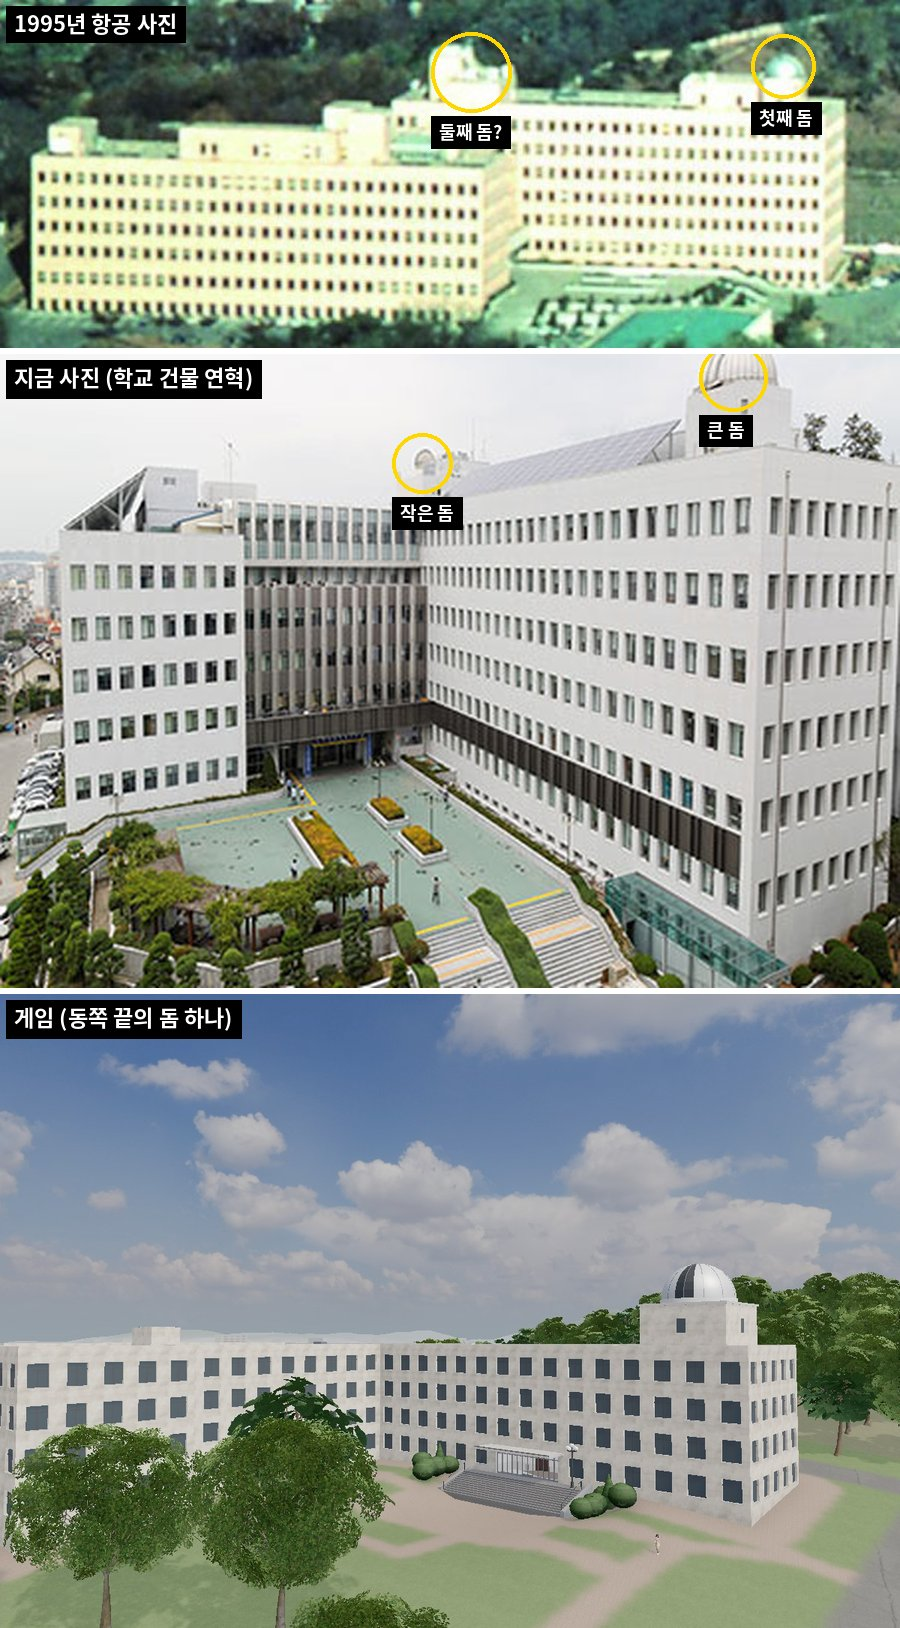
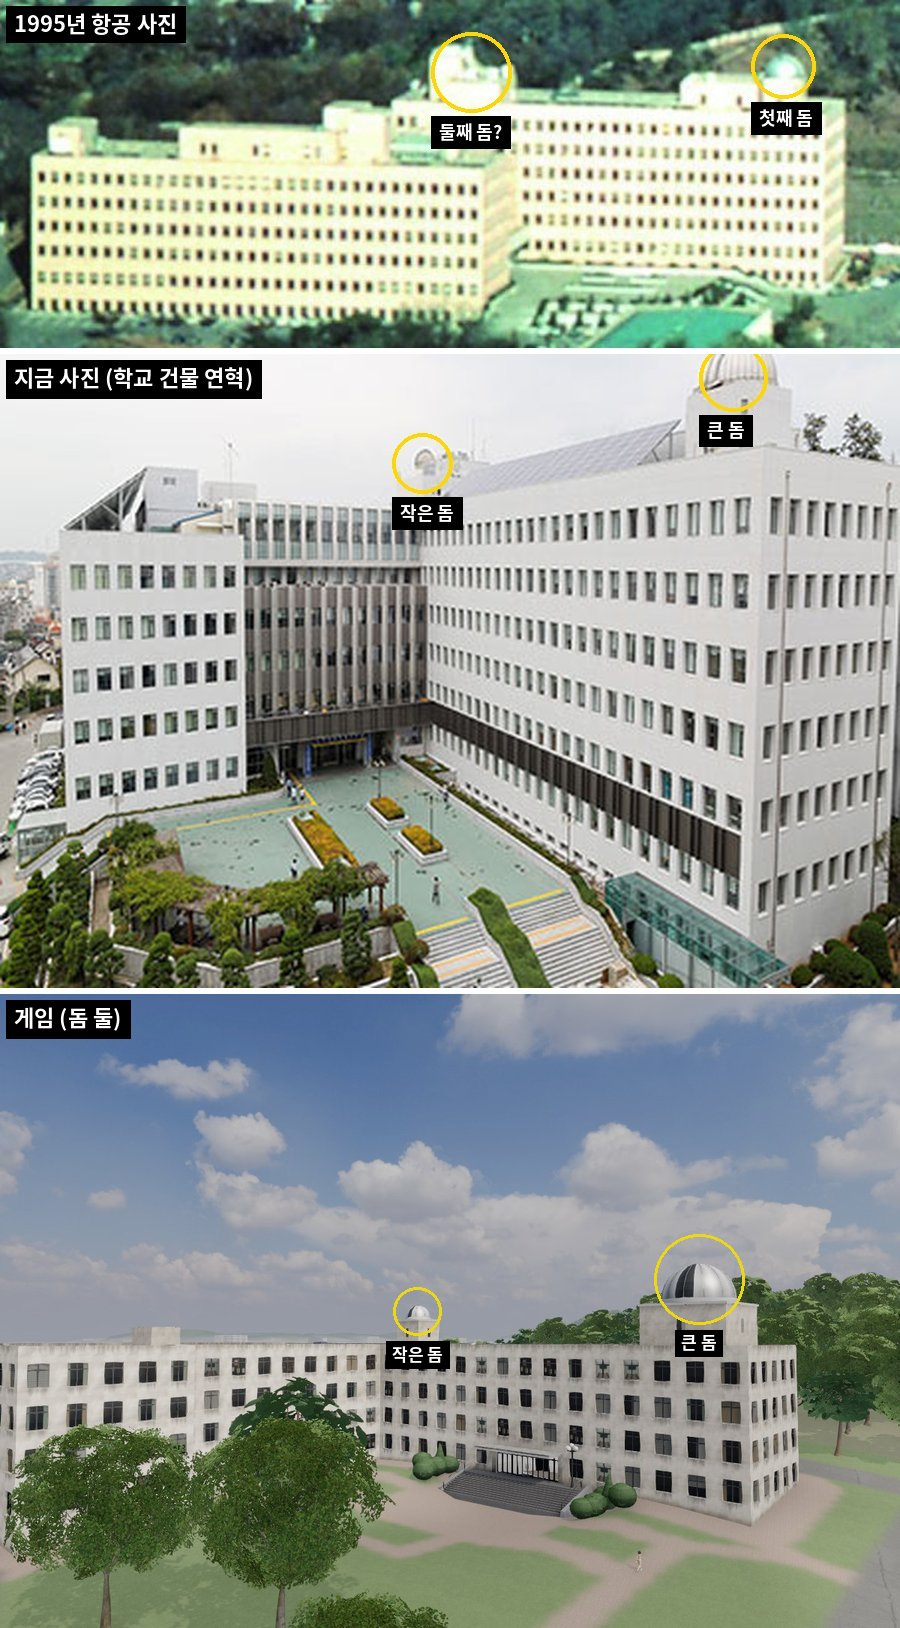
과학관 동쪽 날개 서쪽 끝에 작은 탑과 은빛 돔을 더함
- observatory 의 탑 · 돔 만들기를 dome_tower 로 빼고, 앞 블록과 만나는
  곳에 4.4 m 탑 위 지름 3.6 m 돔을 하나 더 세움. 크기와 탑 높이는 지금
  사진에서 큰 돔과의 비로 어림(고증 3.10)
- 비교 그림(74)의 게임 쪽을 같은 카메라로 다시 찍고 새 소식 캡처(89)

Changed region(s): [[0.0, 0.7371, 1.0, 0.9521], [0.3111, 0.9828, 0.4978, 1.0], [0.0933, 0.6143, 0.28, 0.645]]

diff --git a/blender/generic.py b/blender/generic.py
@@ -448,49 +448,65 @@ def barrel_roof(mb, cx, cy, L, W, ang, zt, rise=0.22, seg=12):
 
 
 # ----------------------------------------------------------------------------- rooftop features the outlines cannot say
-def observatory(mb, b, zt, st):
-    """과학관's observatory (reference/학교연혁_과학관.jpg, top right; reference/활천대_2009_연세춘추.jpg, far left): a
-    square white tower about 1.4 storeys over the roof near the east end of the east wing, carrying a silver dome
-    with an observing slit.  The tower stands back from the south face and is about 2.5 window bays across; the dome
-    nearly fills it (7.6 m across on a short drum), its top some 9.5 m over the main roof."""
-    fp = b['footprint']
-    e0, e1 = Vector(fp[0]), Vector(fp[1])                # the east face of the east wing (south -> north)
-    w = (Vector(fp[14]) - e0).normalized()               # along the wing, westwards
-    c = (e0 + e1) / 2 + w * 7.5                          # tower centre, 7.5 m in from the east face (aerial)
-    ang = math.atan2(w.y, w.x)
-    T, Ht = 9.0, 5.0                                     # tower side, height over the roof
+def dome_tower(mb, c, ang, zt, st, T, Ht, R, seg, rings, slit, drum, win, seam=0.04, phase=0.0):
+    """A square tower T a side and Ht over the roof zt at c (its sides along ang), with a window (half width, sill and
+    head over the roof) in three faces, carrying a silver dome R in radius on a white drum `drum` tall: gores of the
+    shell, the gores `slit` dark (the observing slit, running up over the top), raised seams between every other two."""
     zb = zt + Ht
     mb.box((c.x, c.y, zt + Ht / 2), (T, T, Ht), st['wall'], rotz=ang, mats={'top': 'roof_flat'}, skip=('bottom',))
     mb.box((c.x, c.y, zb + 0.12), (T + 0.3, T + 0.3, 0.24), 'concrete', rotz=ang, skip=('bottom',))   # coping
     cs, sn = math.cos(ang), math.sin(ang)
-    L = lambda u, v, z: (c.x + u * cs - v * sn, c.y + u * sn + v * cs, z)     # u westwards, v southwards
-    for (u, v, nu, nv) in ((0, T / 2, 0, 1), (-T / 2, 0, -1, 0), (T / 2, 0, 1, 0)):            # a window: S, E, W faces
+    L = lambda u, v, z: (c.x + u * cs - v * sn, c.y + u * sn + v * cs, z)     # u along ang, v to its right
+    hw, z0, z1 = win
+    for (u, v, nu, nv) in ((0, T / 2, 0, 1), (-T / 2, 0, -1, 0), (T / 2, 0, 1, 0)):
         tu, tv = -nv, nu
         p = lambda s, z, d=0.02: L(u + tu * s + nu * d, v + tv * s + nv * d, z)
-        mb.quad(p(-0.45, zt + 2.2), p(0.45, zt + 2.2), p(0.45, zt + 3.6), p(-0.45, zt + 3.6), st['glass'])
-    R, seg, rings = 3.8, 24, 7
-    mb.cylinder((c.x, c.y), R + 0.1, zb + 0.24, zb + 0.75, 'paint_white', seg=seg, cap_top=False)   # drum
-    za = zb + 0.75
-    # the dome: gores of the silver shell, with the slit (two gores wide, dark) running up over the top
+        mb.quad(p(-hw, zt + z0), p(hw, zt + z0), p(hw, zt + z1), p(-hw, zt + z1), st['glass'])
+    mb.cylinder((c.x, c.y), R + 0.1, zb + 0.24, zb + 0.24 + drum, 'paint_white', seg=seg, cap_top=False)
+    za = zb + 0.24 + drum
+    a_ = ang + phase
     for i in range(seg):
         a0, a1 = 2 * math.pi * i / seg, 2 * math.pi * (i + 1) / seg
-        slit = i in (5, 6)                               # facing south-west
+        dark = i in slit
         for j in range(rings):
             t0, t1 = math.pi / 2 * j / rings, math.pi / 2 * (j + 1) / rings
-            q = lambda a, t: (c.x + R * math.cos(t) * math.cos(a + ang), c.y + R * math.cos(t) * math.sin(a + ang),
+            q = lambda a, t: (c.x + R * math.cos(t) * math.cos(a + a_), c.y + R * math.cos(t) * math.sin(a + a_),
                               za + R * math.sin(t))
-            mb.face([q(a0, t0), q(a1, t0), q(a1, t1), q(a0, t1)], 'metal_dark' if slit else 'lamp_housing',
-                    smooth='obs_dome' if not slit else False)
-    for i in range(0, seg, 2):                           # raised seams between the gores
-        a = 2 * math.pi * i / seg + ang
+            mb.face([q(a0, t0), q(a1, t0), q(a1, t1), q(a0, t1)], 'metal_dark' if dark else 'lamp_housing',
+                    smooth='obs_dome' if not dark else False)
+    for i in range(0, seg, 2):
+        a = 2 * math.pi * i / seg + a_
         for j in range(rings):
             t0, t1 = math.pi / 2 * j / rings, math.pi / 2 * (j + 1) / rings
-            r0, r1 = R + 0.03, R + 0.03
+            r0 = r1 = R + 0.03
             p0 = (c.x + r0 * math.cos(t0) * math.cos(a), c.y + r0 * math.cos(t0) * math.sin(a), za + r0 * math.sin(t0))
             p1 = (c.x + r1 * math.cos(t1) * math.cos(a), c.y + r1 * math.cos(t1) * math.sin(a), za + r1 * math.sin(t1))
-            dx, dy = -math.sin(a) * 0.04, math.cos(a) * 0.04
+            dx, dy = -math.sin(a) * seam, math.cos(a) * seam
             mb.quad((p0[0] - dx, p0[1] - dy, p0[2]), (p0[0] + dx, p0[1] + dy, p0[2]),
                     (p1[0] + dx, p1[1] + dy, p1[2]), (p1[0] - dx, p1[1] - dy, p1[2]), 'frame_silver')
+
+
+def observatory(mb, b, zt, st):
+    """과학관's two domes on its east wing.  The observatory (reference/학교연혁_과학관.jpg, top right;
+    reference/활천대_2009_연세춘추.jpg, far left): a square white tower about 1.4 storeys over the roof near the east
+    end, carrying a silver dome with an observing slit.  The tower stands back from the south face and is about 2.5
+    window bays across; the dome nearly fills it (7.6 m across on a short drum), its top some 9.5 m over the main
+    roof.  And at the wing's west end, where it meets the front block, a small tower with a small silver dome
+    (학교연혁_과학관.jpg, x 213 y 55 in the 454 px print; the 1995 aerial photo, a white tower with a rounded top at
+    x 515 - 550 of 3200).  No photo shows it near enough to measure: against the window bays round each, the small
+    dome is about 0.4 - 0.5 of the large one across and its top about 0.7 as high over the roof, so 3.6 m across on
+    a tower 4.4 m a side and 4.2 m high (reference/고증.md)."""
+    fp = b['footprint']
+    e0, e1 = Vector(fp[0]), Vector(fp[1])                # the east face of the east wing (south -> north)
+    w = (Vector(fp[14]) - e0).normalized()               # along the wing, westwards
+    ang = math.atan2(w.y, w.x)
+    # (the slit two gores wide, facing south-west: u westwards, v southwards)
+    dome_tower(mb, (e0 + e1) / 2 + w * 7.5, ang, zt, st, T=9.0, Ht=5.0, R=3.8, seg=24, rings=7, slit=(5, 6),
+               drum=0.51, win=(0.45, 2.2, 3.6))
+    # the small one over the junction with the front block (whose east face meets the wing 49.5 m from its east face),
+    # its slit one gore wide, the same way
+    dome_tower(mb, (e0 + e1) / 2 + w * (Vector(fp[14]) - e0).length, ang, zt, st, T=4.4, Ht=4.2, R=1.8, seg=16,
+               rings=5, slit=(4,), drum=0.3, win=(0.35, 1.8, 3.1), seam=0.025, phase=-math.pi / 16)
 
 
 ROOF_EXTRAS = {222843398: observatory}
